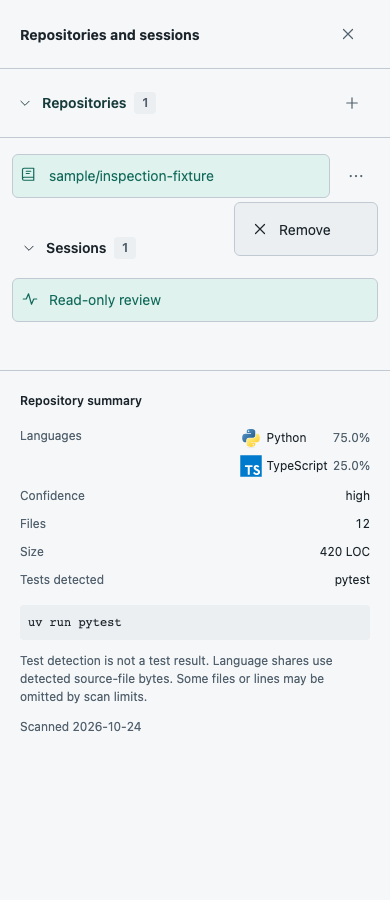
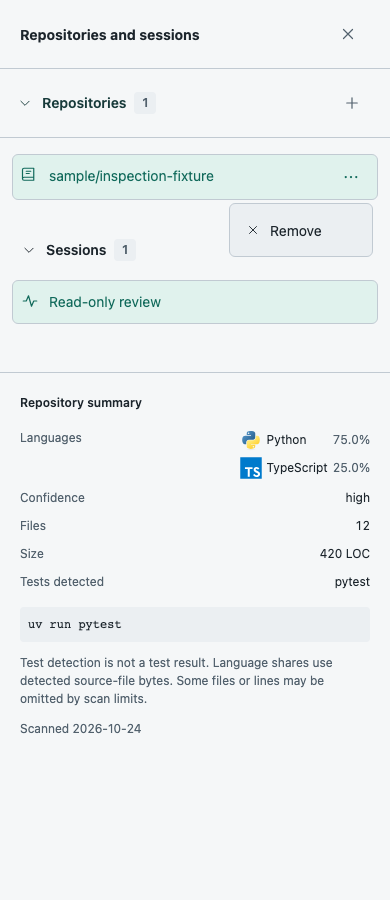
fix(workspace): integrate repository actions and confirm removal

diff --git a/frontend/src/app/workspace.tsx b/frontend/src/app/workspace.tsx
@@ -5,6 +5,7 @@ import { AppHeader, Icon } from '@/components/ui/shell';
 import type { SafeProfile } from '@/lib/auth-api';
 import { Drawer } from '@/components/ui/drawer';
 import { RepositoryActions } from '@/components/ui/repository-actions';
+import { RepositoryRemovalDialog } from '@/components/ui/repository-removal-dialog';
 import { useCallback, useEffect, useMemo, useRef, useState } from 'react';
 import { GitHubRepositoryPicker } from './github-repository-picker';
 
@@ -64,6 +65,7 @@ function eventMessage(event: RunEvent) {
 export default function Workspace({ user, csrfToken }: { user: SafeProfile; csrfToken: string }) {
   const [removingId, setRemovingId] = useState<string | null>(null);
   const visibilityPending = useRef(false);
+  const [removalTarget, setRemovalTarget] = useState<OwnedRepository | null>(null);
   const [removedRepository, setRemovedRepository] = useState<OwnedRepository | null>(null);
   const [repositoryActionError, setRepositoryActionError] = useState<string | null>(null);
   const [repositoriesExpanded, setRepositoriesExpanded] = useState(true);
@@ -266,6 +268,7 @@ export default function Workspace({ user, csrfToken }: { user: SafeProfile; csrf
     try {
       await setRepositoryHidden(repository.id, hidden, csrfToken);
       setRemovedRepository(hidden ? repository : null);
+      setRemovalTarget(null);
       if (hidden) {
         setRepositories((current) => current.filter((item) => item.id !== repository.id));
         if (selectedRepositoryIdRef.current === repository.id) {
@@ -335,7 +338,11 @@ export default function Workspace({ user, csrfToken }: { user: SafeProfile; csrf
           ) : null}
           <div className="selection-list" role="group" aria-label="Repositories">
             {repositories.map((repository) => (
-              <div className="repository-selection" key={repository.id}>
+              <div
+                className="repository-selection"
+                data-selected={repository.id === selectedRepositoryId}
+                key={repository.id}
+              >
                 <button
                   aria-pressed={repository.id === selectedRepositoryId}
                   className="selection-row"
@@ -366,13 +373,16 @@ export default function Workspace({ user, csrfToken }: { user: SafeProfile; csrf
                 <RepositoryActions
                   name={repository.name}
                   disabled={submitting || removingId !== null}
-                  onRemove={() => void changeRepositoryVisibility(repository, true)}
+                  onRemove={() => {
+                    setRepositoryActionError(null);
+                    setRemovalTarget(repository);
+                  }}
                 />
               </div>
             ))}
           </div>
         </div>
-        {repositoryActionError ? (
+        {repositoryActionError && !removalTarget ? (
           <p role="alert" className="summary-note">
             {repositoryActionError}
           </p>
@@ -790,6 +800,19 @@ export default function Workspace({ user, csrfToken }: { user: SafeProfile; csrf
         >
           {drawer === 'repositories' ? repositoryPane : eventPane}
         </Drawer>
+      ) : null}
+      {removalTarget ? (
+        <RepositoryRemovalDialog
+          name={removalTarget.name}
+          pending={removingId !== null}
+          error={repositoryActionError}
+          onCancel={() => {
+            if (visibilityPending.current) return;
+            setRemovalTarget(null);
+            setRepositoryActionError(null);
+          }}
+          onConfirm={() => void changeRepositoryVisibility(removalTarget, true)}
+        />
       ) : null}
       {showRepositoryPicker ? (
         <GitHubRepositoryPicker

diff --git a/frontend/e2e/workspace.spec.ts b/frontend/e2e/workspace.spec.ts
@@ -686,11 +686,16 @@ for (const width of [1440, 390]) {
     await page.setViewportSize({ width, height: 900 });
     await fixture(page);
     let hidden = false;
+    let failRemoval = true;
     await page.route('**/api/v1/repositories', (route) =>
       route.fulfill({ json: hidden ? [] : [repository] }),
     );
     await page.route('**/api/v1/repositories/repository-1/visibility', (route) => {
       expect(route.request().headers()['x-csrf-token']).toBe('fixture-csrf');
+      if (failRemoval && route.request().postDataJSON().hidden) {
+        failRemoval = false;
+        return route.fulfill({ status: 503, json: { detail: 'Unavailable' } });
+      }
       hidden = route.request().postDataJSON().hidden;
       return route.fulfill({ status: 204 });
     });
@@ -698,6 +703,8 @@ for (const width of [1440, 390]) {
     if (width === 390)
       await page.getByRole('button', { name: 'Repositories', exact: true }).click();
     const actions = page.getByRole('button', { name: `Actions for ${repository.name}` });
+    const row = page.locator('.repository-selection').filter({ has: actions });
+    await expect(row).not.toHaveCSS('background-color', 'rgba(0, 0, 0, 0)');
     await actions.focus();
     await page.keyboard.press('ArrowDown');
     await expect(page.getByRole('menuitem', { name: 'Remove', exact: true })).toBeFocused();
@@ -711,6 +718,30 @@ for (const width of [1440, 390]) {
     await actions.click();
     await capture(page, testInfo, `repository-actions-menu-${width}`);
     await page.getByRole('menuitem', { name: 'Remove', exact: true }).click();
+    const confirmation = page.getByRole('dialog', { name: 'Remove repository?' });
+    await expect(confirmation).toContainText(repository.name);
+    await expect(confirmation).toContainText('associated sessions');
+    await expect(confirmation.getByRole('button', { name: 'Cancel' })).toBeFocused();
+    expect(hidden).toBe(false);
+    await capture(page, testInfo, `repository-removal-confirmation-${width}`);
+    await page.keyboard.press('Escape');
+    await expect(confirmation).toHaveCount(0);
+    await expect(actions).toBeFocused();
+    expect(hidden).toBe(false);
+    await actions.click();
+    await page.getByRole('menuitem', { name: 'Remove', exact: true }).click();
+    await confirmation.getByRole('button', { name: 'Cancel' }).click();
+    await expect(actions).toBeFocused();
+    expect(hidden).toBe(false);
+    await actions.click();
+    await page.getByRole('menuitem', { name: 'Remove', exact: true }).click();
+    await confirmation.getByRole('button', { name: 'Remove repository', exact: true }).click();
+    await expect(confirmation.getByRole('alert')).toHaveText(
+      'Could not remove this repository. Please retry.',
+    );
+    expect(hidden).toBe(false);
+    await confirmation.getByRole('button', { name: 'Remove repository', exact: true }).click();
+    await expect(confirmation).toHaveCount(0);
     await expect(page.getByRole('button', { name: 'Repositories 0' })).toBeVisible();
     await expect(page.getByRole('button', { name: 'Sessions 0' })).toBeVisible();
     await expect(page.getByRole('button', { name: repository.name, exact: true })).toHaveCount(0);
@@ -720,6 +751,7 @@ for (const width of [1440, 390]) {
     await capture(page, testInfo, `repository-remove-action-${width}`);
     await actions.click();
     await page.getByRole('menuitem', { name: 'Remove', exact: true }).click();
+    await confirmation.getByRole('button', { name: 'Remove repository', exact: true }).click();
     await expect(page.getByRole('button', { name: 'Repositories 0' })).toBeVisible();
     await page.reload();
     if (width === 390)

diff --git a/frontend/src/components/ui/repository-removal-dialog.tsx b/frontend/src/components/ui/repository-removal-dialog.tsx
@@ -1,0 +1,73 @@
+'use client';
+
+import { useEffect, useId, useRef } from 'react';
+
+export function RepositoryRemovalDialog({
+  name,
+  pending,
+  error,
+  onCancel,
+  onConfirm,
+}: {
+  name: string;
+  pending: boolean;
+  error: string | null;
+  onCancel: () => void;
+  onConfirm: () => void;
+}) {
+  const dialog = useRef<HTMLDialogElement>(null);
+  const cancel = useRef<HTMLButtonElement>(null);
+  const id = useId();
+
+  useEffect(() => {
+    const element = dialog.current;
+    const trigger = document.activeElement as HTMLElement | null;
+    element?.showModal();
+    cancel.current?.focus();
+    return () => {
+      element?.close();
+      trigger?.focus();
+    };
+  }, []);
+
+  return (
+    <dialog
+      ref={dialog}
+      className="repository-removal-dialog"
+      aria-labelledby={`${id}-title`}
+      aria-describedby={`${id}-description`}
+      onCancel={(event) => {
+        event.preventDefault();
+        if (!pending) onCancel();
+      }}
+    >
+      <h2 id={`${id}-title`}>Remove repository?</h2>
+      <p id={`${id}-description`}>
+        Remove <strong>{name}</strong> and its associated sessions from your workspace?
+      </p>
+      <p className="removal-note">
+        You can undo this removal. The snapshot and saved sessions are retained, and nothing on
+        GitHub changes.
+      </p>
+      {error ? (
+        <p role="alert" className="danger">
+          {error}
+        </p>
+      ) : null}
+      <div className="removal-dialog-actions">
+        <button
+          ref={cancel}
+          type="button"
+          className="secondary-button"
+          disabled={pending}
+          onClick={onCancel}
+        >
+          Cancel
+        </button>
+        <button type="button" className="primary-button" disabled={pending} onClick={onConfirm}>
+          {pending ? 'Removing…' : 'Remove repository'}
+        </button>
+      </div>
+    </dialog>
+  );
+}

diff --git a/frontend/src/app/globals.css b/frontend/src/app/globals.css
@@ -1375,8 +1375,25 @@ code {
 .repository-selection {
   display: flex;
   align-items: center;
-  gap: 4px;
   min-width: 0;
+  padding-right: 4px;
+  border: 1px solid transparent;
+  border-radius: var(--radius);
+}
+.repository-selection:hover {
+  background: var(--hover);
+}
+.repository-selection[data-selected='true'] {
+  background: var(--selected);
+  border-color: var(--border);
+}
+.repository-selection .selection-row,
+.repository-selection .selection-row:hover {
+  border: 0;
+  background: transparent;
+}
+.repository-selection[data-selected='true'] .repository-actions-trigger {
+  color: var(--accent);
 }
 .repository-selection .selection-row {
   flex: 1;
@@ -1450,4 +1467,47 @@ code {
     height: 60px;
     min-height: 48px;
   }
+}
+
+.repository-actions-menu .icon {
+  width: 14px;
+  height: 14px;
+  flex-basis: 14px;
+}
+.repository-removal-dialog {
+  position: fixed;
+  inset: 0;
+  width: min(440px, 100% - 32px);
+  max-height: calc(100dvh - 32px);
+  margin: auto;
+  padding: 24px;
+  overflow: auto;
+  border: 1px solid var(--control-border);
+  border-radius: 12px;
+  background: var(--panel);
+  color: var(--text);
+}
+.repository-removal-dialog::backdrop {
+  background: color-mix(in srgb, var(--canvas) 68%, transparent);
+  backdrop-filter: blur(5px);
+}
+.repository-removal-dialog h2 {
+  font-size: 20px;
+  line-height: 1.3;
+  letter-spacing: -0.02em;
+}
+.repository-removal-dialog p {
+  margin-top: 16px;
+  overflow-wrap: anywhere;
+}
+.repository-removal-dialog .removal-note {
+  color: var(--muted);
+  font-size: 12px;
+}
+.removal-dialog-actions {
+  display: flex;
+  justify-content: flex-end;
+  flex-wrap: wrap;
+  gap: 12px;
+  margin-top: 24px;
 }

diff --git a/DESIGN.md b/DESIGN.md
@@ -158,4 +158,4 @@ Repository summaries use compact 12px metadata, local language logos and source-
 
 Repositories and Sessions have independent chevron disclosures with current counts. Their add actions remain available when collapsed. Desktop repository creation lives beside the Repositories heading; mobile retains the context-bar shortcut and the drawer action. Expanding and collapsing preserves selection. New sessions and imports expand their corresponding list.
 
-Repository rows keep secondary actions in a muted three-dot menu. The menu supports keyboard opening, Escape dismissal and focus return, with Remove as its current action. Removal updates counts and clears a removed active selection; an inline Undo keeps this list operation reversible. Snapshots and saved sessions are retained.
+Repository rows include their three-dot action control inside the shared selection background. The Remove menu item uses a smaller 14px icon and opens a confirmation naming the repository and its associated sessions. Cancel receives initial focus; Cancel and Escape return focus to the menu trigger without sending a mutation. Failed removal stays in the dialog for retry. The menu supports keyboard opening, Escape dismissal and focus return, with Remove as its current action. Removal updates counts and clears a removed active selection; an inline Undo keeps this list operation reversible. Snapshots and saved sessions are retained.

diff --git a/README.md b/README.md
@@ -196,4 +196,4 @@ Repository search accepts an owner prefix such as `tudstk/` and a partial reposi
 
 Language percentages use detected source-file bytes from the confined, bounded file listing, excluding ignored directories. They are independent of the weighted primary-language confidence heuristic and do not claim GitHub Linguist parity. Local Devicon assets provide language logos without browser requests to third parties.
 
-Each repository has a three-dot actions menu. **Remove** hides it from your workspace list; it does not delete source snapshots, saved sessions or anything on GitHub. **Undo removal** restores the last removed entry. Importing the same public repository commit again also restores its entry. Visibility changes are owner-scoped and require the same CSRF protection as other workspace mutations.
+Each repository has a three-dot actions menu. **Remove** opens a confirmation for the repository and its associated sessions. Confirming hides it from your workspace list; it does not delete source snapshots, saved sessions or anything on GitHub. **Undo removal** restores the last removed entry. Importing the same public repository commit again also restores its entry. Visibility changes are owner-scoped and require the same CSRF protection as other workspace mutations.

diff --git a/docs/reviews/public-import/README.md b/docs/reviews/public-import/README.md
@@ -3,3 +3,5 @@ Public repository import review captures
 Captured with Playwright against the local frontend using synthetic API fixtures. These images demonstrate layout, not real account data. Desktop: 1440px. Mobile: 390px.
 
 `actions-1440.png` and `actions-390.png` show the repository actions menu on desktop and mobile. Remove hides the entry while retaining its snapshot and saved sessions; Undo restores it.
+
+`confirmation-1440.png` and `confirmation-390.png` show the removal confirmation with the repository name and associated sessions. Cancel and Escape preserve the entry; a failed mutation stays open for retry. The actions captures include the menu control inside the selected row.
